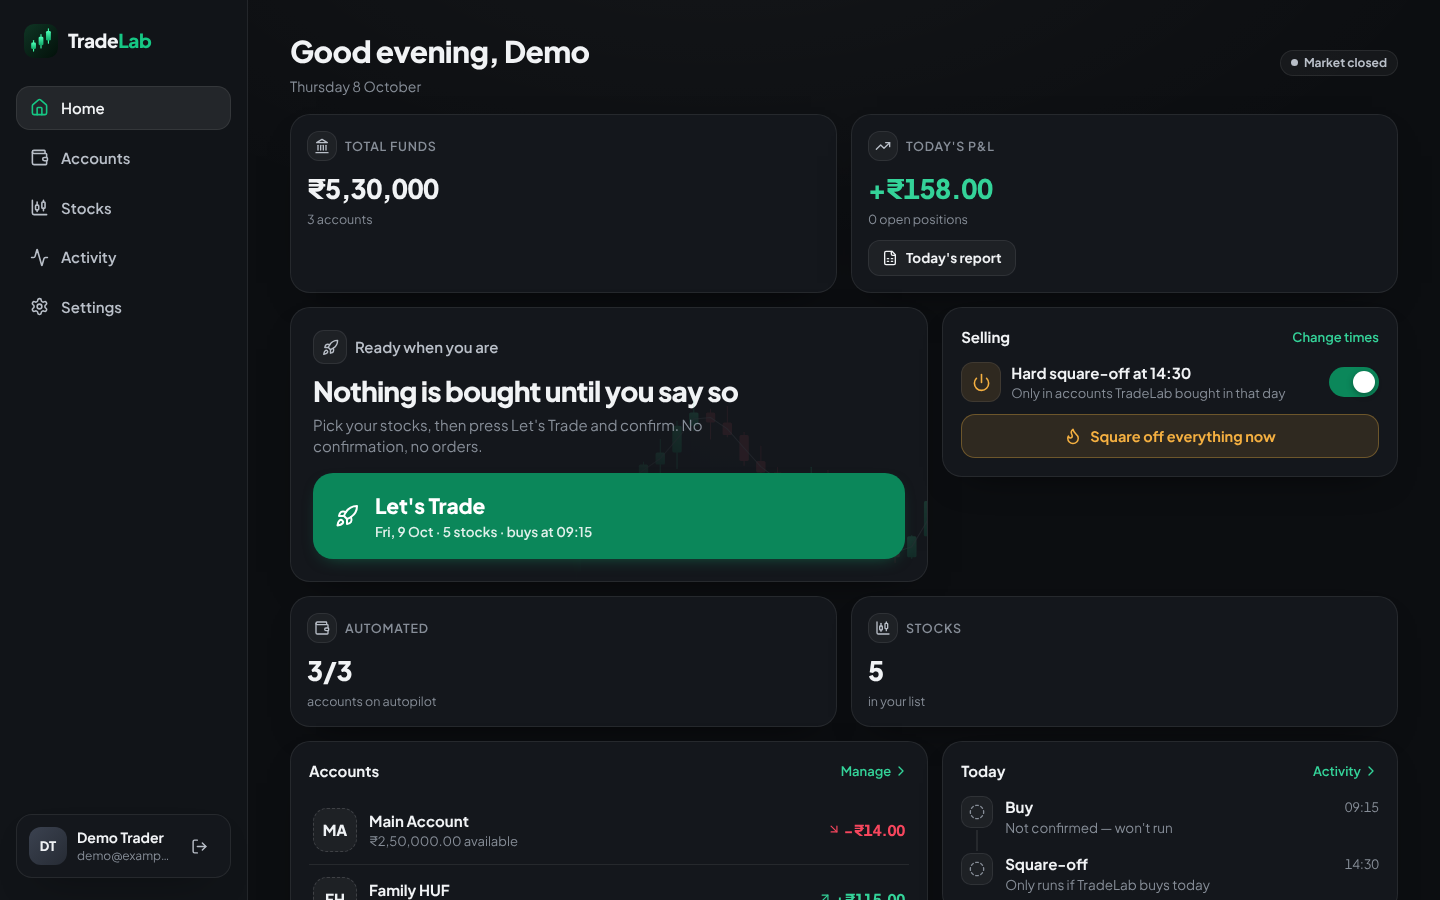
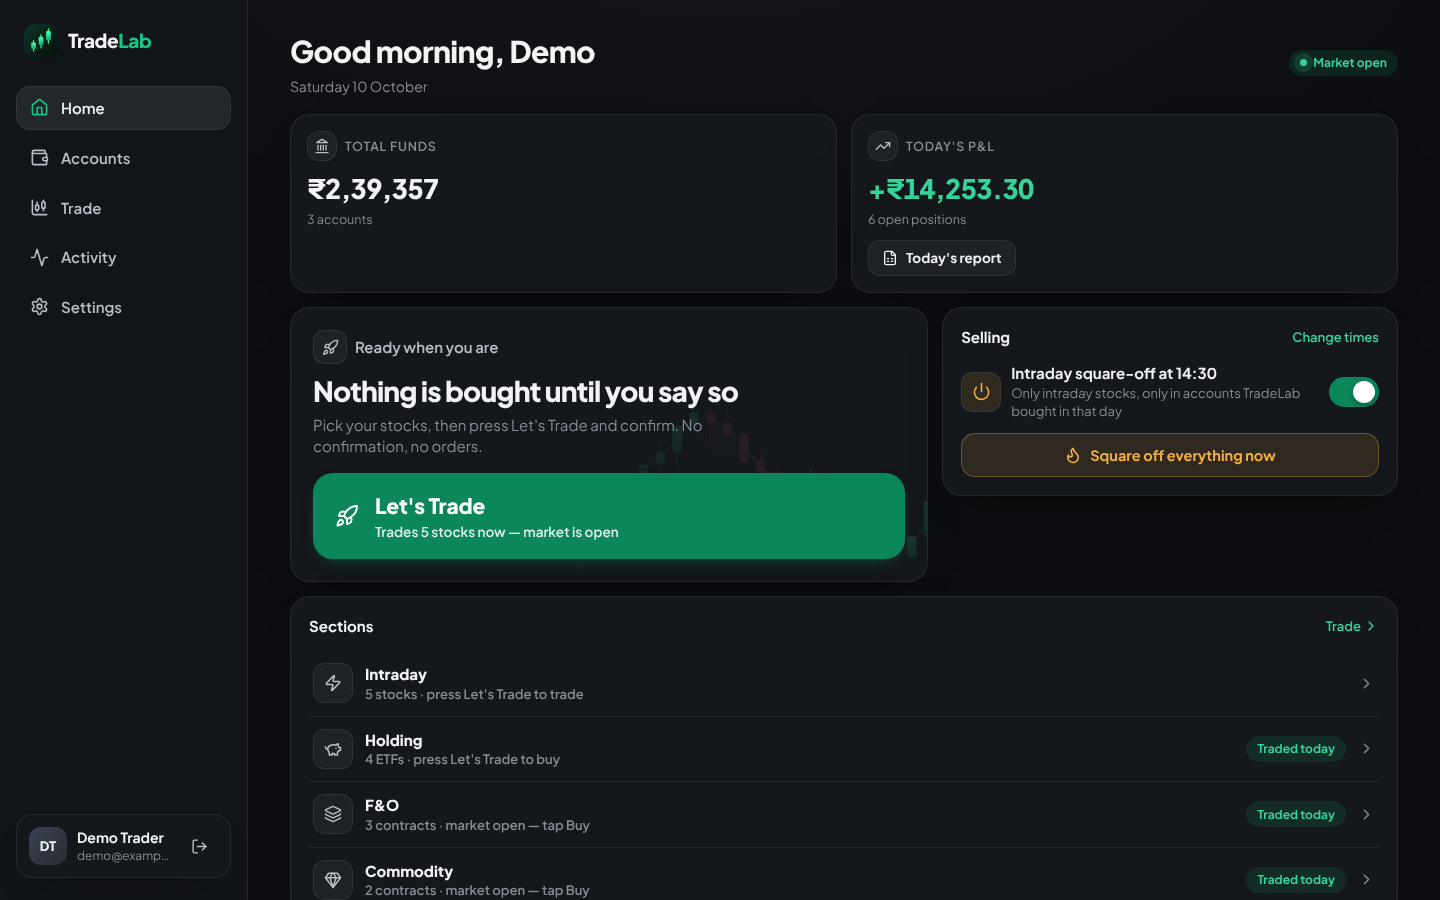
README: screenshots of the new sections
Claude-Session: https://claude.ai/code/session_016VzcocqTZ7Z1jQjB71Zbmd

diff --git a/README.md b/README.md
@@ -13,9 +13,9 @@ In every section, the money free in each account at that moment (less an optiona
 
 It installs like a normal app on **Android** and **Windows**. Everyone who uses it signs in with their own email and password and sees only their own accounts.
 
-| Dashboard | Money per stock (Android) | Search stocks (Android) | Add account (Android) |
-|---|---|---|---|
-| ![Dashboard](docs/screenshots/dashboard.png) | ![Stocks](docs/screenshots/mobile-stocks.png) | ![Search](docs/screenshots/mobile-search.png) | ![Add account](docs/screenshots/mobile-add-account.png) |
+| Home | Holding (Android) | Holdings and Sell (Android) | F&O: Buy now (Android) | Contract search (Android) |
+|---|---|---|---|---|
+| ![Home](docs/screenshots/dashboard.png) | ![Holding](docs/screenshots/mobile-holding.png) | ![Holdings](docs/screenshots/mobile-holdings-sell.png) | ![Buy now](docs/screenshots/mobile-fno-buy.png) | ![Search](docs/screenshots/mobile-contract-search.png) |
 
 ---
 
